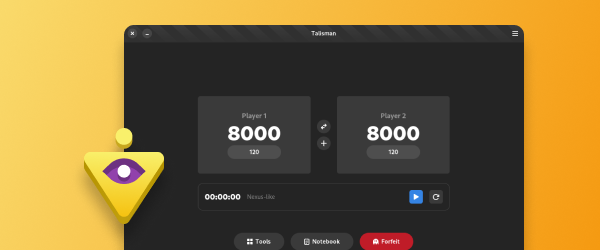
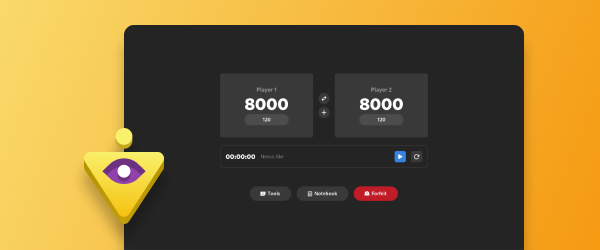
New captures + Navbar themes fixed

diff --git a/src/views/Credits.vue b/src/views/Credits.vue
@@ -11,28 +11,28 @@ const wallpy = ref({
       img: `${nestedPath.path}images/day.webp`,
       title: "Day, by Nerd",
       onc: function () {
-        changeLoc("https://files.imalonelynerd.fr/LonelyIsland%20backgrounds/day.jpg")
+        changeLoc("https://files.imalonelynerd.fr/LonelyIsland/Backgrounds/day.jpg")
       }
     },
     {
       img: `${nestedPath.path}images/twilight.webp`,
       title: "Twilight, by Nerd",
       onc: function () {
-        changeLoc("https://files.imalonelynerd.fr/LonelyIsland%20backgrounds/twilight.jpg")
+        changeLoc("https://files.imalonelynerd.fr/LonelyIsland/Backgrounds/twilight.jpg")
       }
     },
     {
       img: `${nestedPath.path}images/night.webp`,
       title: "Night, by Nerd",
       onc: function () {
-        changeLoc("https://files.imalonelynerd.fr/LonelyIsland%20backgrounds/noght.jpg")
+        changeLoc("https://files.imalonelynerd.fr/LonelyIsland/Backgrounds/noght.jpg")
       }
     },
     {
       img: `${nestedPath.path}images/comet.webp`,
       title: "Comet, by Nerd",
       onc: function () {
-        changeLoc("https://files.imalonelynerd.fr/LonelyIsland%20backgrounds/comet.jpg")
+        changeLoc("https://files.imalonelynerd.fr/LonelyIsland/Backgrounds/comet.jpg")
       }
     },
   ]
@@ -47,7 +47,7 @@ const wallpy = ref({
       ⬧ The icons used in the <b>"About me"</b> section are from <a
         href="https://icons8.com">Icons8</a>.</p>
     <p>
-      ⬧ All the other icons are made by <b>me</b>.
+      ⬧ All the other icons are made by <b>me</b>, you can download them <a href="https://files.imalonelynerd.fr/LonelyIsland/Icons/">here</a>.
     </p>
   </div>
   <div>

diff --git a/src/views/SelfHost.vue b/src/views/SelfHost.vue
@@ -14,7 +14,7 @@ const nextcloud = ref({
       },
       img: `${nestedPath.path}icons/files.webp`,
       title: "Files",
-      span: ".../apps/files"
+      span: ""
     },
     {
       onc: function () {
@@ -22,7 +22,7 @@ const nextcloud = ref({
       },
       img: `${nestedPath.path}icons/calendar.webp`,
       title: "Calendar",
-      span: ".../apps/calendar"
+      span: ""
     },
     {
       onc: function () {
@@ -30,7 +30,7 @@ const nextcloud = ref({
       },
       img: `${nestedPath.path}icons/music.webp`,
       title: "Music",
-      span: ".../apps/music"
+      span: ""
     },
     {
       onc: function () {
@@ -38,7 +38,7 @@ const nextcloud = ref({
       },
       img: `${nestedPath.path}icons/deck.webp`,
       title: "Deck",
-      span: ".../apps/deck"
+      span: ""
     },
     {
       onc: function () {
@@ -46,7 +46,7 @@ const nextcloud = ref({
       },
       img: `${nestedPath.path}icons/podcast.webp`,
       title: "NextPod",
-      span: ".../apps/nextpod"
+      span: ""
     },
     {
       onc: function () {
@@ -54,7 +54,7 @@ const nextcloud = ref({
       },
       img: `${nestedPath.path}icons/tasks.webp`,
       title: "Tasks",
-      span: ".../apps/tasks"
+      span: ""
     },
     {
       onc: function () {
@@ -62,7 +62,7 @@ const nextcloud = ref({
       },
       img: `${nestedPath.path}icons/news.webp`,
       title: "News",
-      span: ".../apps/news"
+      span: ""
     }
   ]
 });

diff --git a/src/components/navbarComponements/NavbarButton.vue b/src/components/navbarComponements/NavbarButton.vue
@@ -4,6 +4,7 @@ defineProps([
   "imgLink",
   "shownTitle",
   "isImportant",
+  "isTransparent"
 ])
 
 defineEmits([
@@ -12,7 +13,8 @@ defineEmits([
 </script>
 
 <template>
-  <a :class="{ important : isImportant, noimage : imgLink === '' }" class="link" @click="$emit('update:buttonClicked')">
+  <a :class="{ 'important' : isImportant, 'noimage' : imgLink === '', 'transparent' : isTransparent }" class="link"
+     @click="$emit('update:buttonClicked')">
     <img :src="imgLink">
     <p v-show="shownTitle !== ''">{{ shownTitle }}</p>
   </a>
@@ -64,11 +66,12 @@ defineEmits([
   }
 
   .link.important {
+    background: var(--important);
     padding: 16px 24px;
   }
 
   .link.important:hover {
-    background: var(--widget);
+    filter: var(--effect);
   }
 
   .link.important > img {
@@ -92,6 +95,19 @@ defineEmits([
     margin: 0;
     background: var(--widget);
     max-width: none;
+  }
+
+  .link.transparent {
+    padding: 16px 24px;
+    background: transparent;
+  }
+
+  .link.transparent > img {
+    filter: var(--icon-imp) !important;
+  }
+
+  .link.transparent:hover {
+    background: var(--widget);
   }
 }
 

diff --git a/src/components/navbarComponements/Navbar.vue b/src/components/navbarComponements/Navbar.vue
@@ -7,7 +7,7 @@ import nestedPath from "@/assets/json/nestedPath.json"
 
 defineProps([
   "alignRight",
-  "hasScrolled"
+  "hasScrolled",
 ])
 
 const isThemeMenuShown = ref(false);
@@ -100,12 +100,9 @@ const themeMenu2 = ref({
       <NavbarButton img-link=""
                     shownTitle="Private"
                     @update:buttonClicked="$router.push(nestedPath.path + 'private')"/>
-      <!--NavbarButton imgLink=""
-                    shownTitle="Log in"
-                    @update:buttonClicked="changeLoc('https://imalonelynerd.fr/yunohost/sso/',false)"
-                    v-if="$route.name === 'Private'"/-->
       <NavbarButton :imgLink="nestedPath.path + 'icons/theme.webp'"
-                    :isImportant="true"
+                    :isImportant="$route.name !== 'Home'"
+                    :isTransparent="$route.name === 'Home'"
                     shownTitle="Theme"
                     @update:buttonClicked="isThemeMenuShown = true"/>
     </div>
